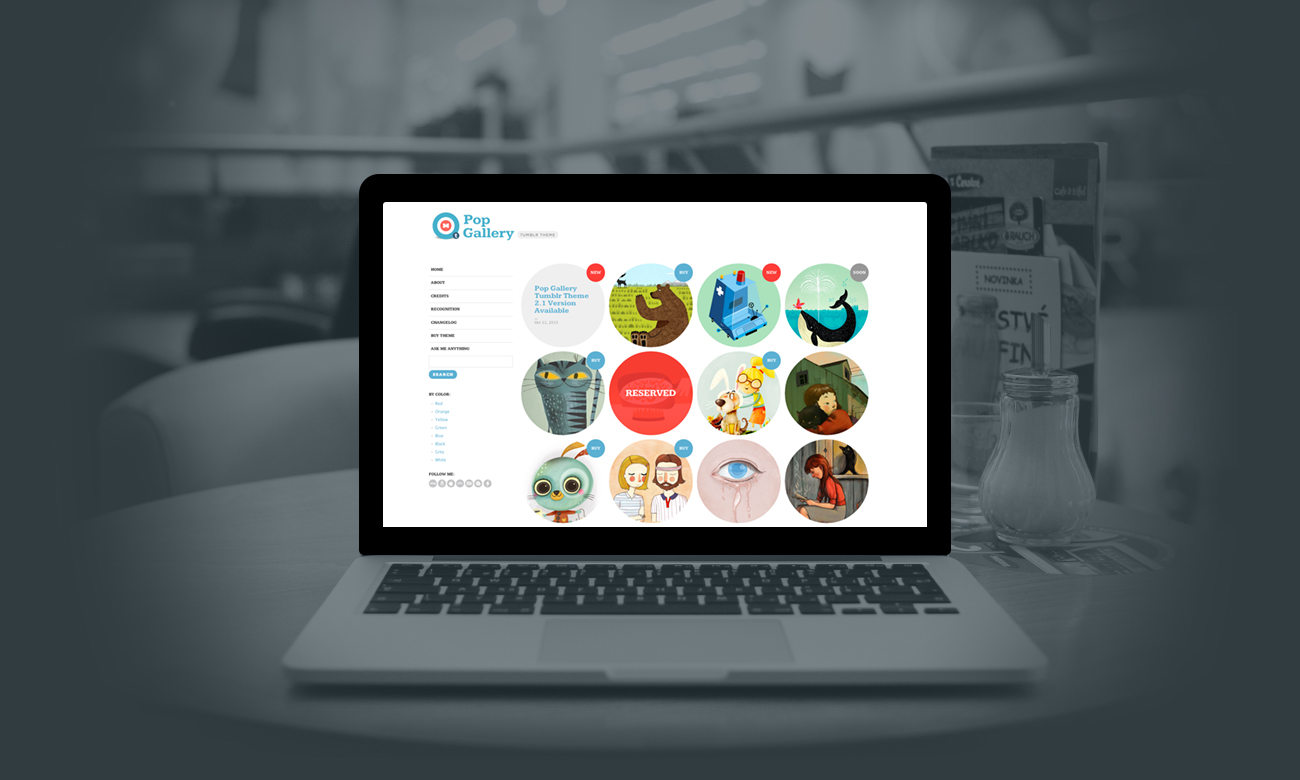
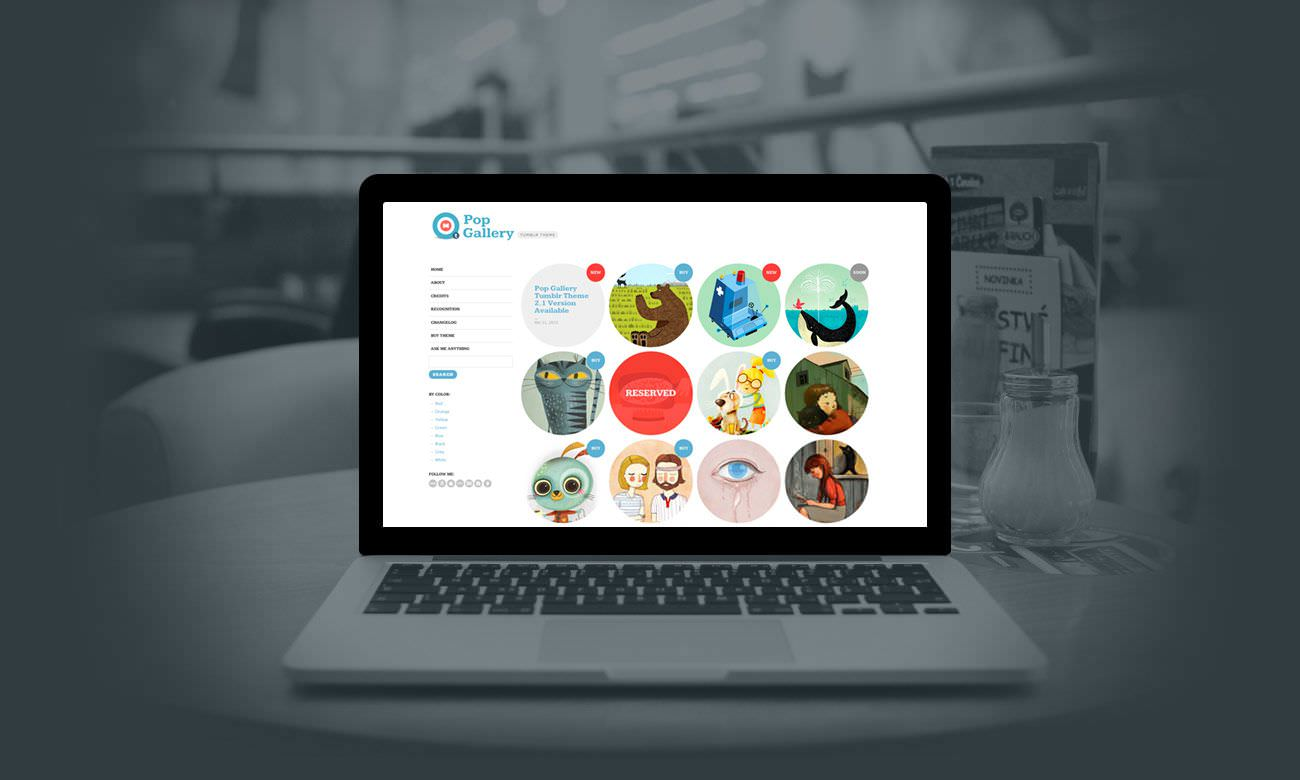
Optimized images. Added Sumome code.

diff --git a/index.html b/index.html
@@ -2,14 +2,14 @@
 <html lang="en">
 <head>
 	<meta charset="UTF-8">
-	<title>Premium Tumblr Themes by Misspato</title>    
-    <meta name="description" content="Whether you are an illustrator, graphic designer, photographer, architect, crafter, visual artist, if you are using Tumblr to showcase your brilliant portfolio, we have a theme for you.">
+	<title>Premium Tumblr Themes by Misspato</title>
+	<meta name="description" content="Whether you are an illustrator, graphic designer, photographer, architect, crafter, visual artist, if you are using Tumblr to showcase your brilliant portfolio, we have a theme for you.">
     <meta name=”keywords” content=”premium tumblr themes, portfolio tumblr themes, tumblr themes”>
 
     <meta http-equiv="X-UA-Compatible" content="IE=edge,chrome=1">
-    
+
     <link rel="stylesheet" type="text/css" href="style.css">
-    
+
     <meta name="viewport" content="width=device-width, initial-scale=1.0, maximum-scale=1.0, user-scalable=0">
     <meta name="apple-mobile-web-app-capable" content="yes">
 
@@ -27,12 +27,14 @@
 
     <meta property="og:title" content="Premium Tumblr Themes by Misspato">
     <meta property="og:image" content="http://f.cl.ly/items/3H3G3H082B0k0i3D300f/shortcut.png">
-    
-    
+
+	<!-- Sumome -->
[1 lines of base64/hex data omitted]
+
 </head>
 <body id="top" class="is-index typekit">
 
-    
+
 <!-- header ///////////////////////////////////////////////////////////////////////////////////////////////////////////////////////////// -->
 
 <header class="l-site-header sk-dark nobkg">
@@ -80,15 +82,15 @@
 	</div>
 </div>
 <!-- /END Cover -->
-    
+
 
 <!-- BEGIN Intro ///////////////////////////////////////////////////////////////// -->
 <div class="intro sk-light typekit-light">
 	<p class="section-intro l-wrap t-center">Whether you are an illustrator, graphic designer, photographer, architect, crafter, visual artist, if you are using Tumblr to showcase your brilliant portfolio, we have a theme for you.</p>
 </div>
 <!-- /END Intro -->
-    
-    
+
+
 
 <!-- BEGIN Themes ///////////////////////////////////////////////////////////////// -->
 <section id="themes" class="themes sk-light">
@@ -222,7 +224,7 @@
 <!-- /END Themes -->
 
 
-    
+
 <!-- BEGIN Features ///////////////////////////////////////////////////////////////// -->
 <section class="features sk-medium">
 	<div class="l-wrap">
@@ -254,8 +256,8 @@
 	</div>
 </section>
 <!-- /END Features -->
-    
-    
+
+
 <!-- BEGIN Support ///////////////////////////////////////////////////////////////// -->
 <section id="support" class="support t-center sk-light">
 	<div class="l-wrap">
@@ -273,8 +275,8 @@
 	</div>
 </section>
 <!-- /END Support -->
-    
-    
+
+
 <!-- footer ///////////////////////////////////////////////////////////////////////////////////////////////////////////////////////////// -->
 
 <!-- BEGIN Back to Top -->
@@ -289,11 +291,11 @@
 		<!-- BEGIN Social Media -->
 		<ul class="socialmedia l-right l-inline">
 			<!-- BEGIN Tumblr follow --><a href="http://www.tumblr.com/follow/misspato" title="Tumblr Follow"><i class="icon icon-follow"></i><b class="hide">Follow</b></a><!-- /END Tumblr follow -->
-				<a href="https://www.facebook.com/pages/misspato/348956085395" title="Facebook"><i class="icon icon-facebook"></i><b class="hide">Facebook</b></a>	
+				<a href="https://www.facebook.com/pages/misspato/348956085395" title="Facebook"><i class="icon icon-facebook"></i><b class="hide">Facebook</b></a>
 				<a href="https://plus.google.com/+MisspatoThemes" title="Google+"><i class="icon icon-googleplus"></i><b class="hide">Google+</b></a>
-			
-				<a href="https://twitter.com/misspatolinks" title="Twitter"><i class="icon icon-twitter"></i><b class="hide">Twitter</b></a>		
-				<a href="http://dribbble.com/misspato" title="Dribbble"><i class="icon icon-dribbble"></i><b class="hide">Dribbble</b></a>	
+
+				<a href="https://twitter.com/misspatolinks" title="Twitter"><i class="icon icon-twitter"></i><b class="hide">Twitter</b></a>
+				<a href="http://dribbble.com/misspato" title="Dribbble"><i class="icon icon-dribbble"></i><b class="hide">Dribbble</b></a>
 		</ul>
 		<!-- /END Social Media -->
 		<!-- BEGIN Copyright -->
@@ -304,8 +306,8 @@
 </footer>
 <!-- /END Footer -->
 
-    
-    
+
+
 <!-- Scripts /////////////////////////////////////////////////////////////////////////////////////////////////////////////////////////////  -->
 <!-- JQuery -->
 <script src="//ajax.googleapis.com/ajax/libs/jquery/2.1.1/jquery.min.js"></script>
@@ -351,6 +353,6 @@
 	ga('send', 'pageview');
 </script>
 -->
-   
+
 </body>
 </html>
